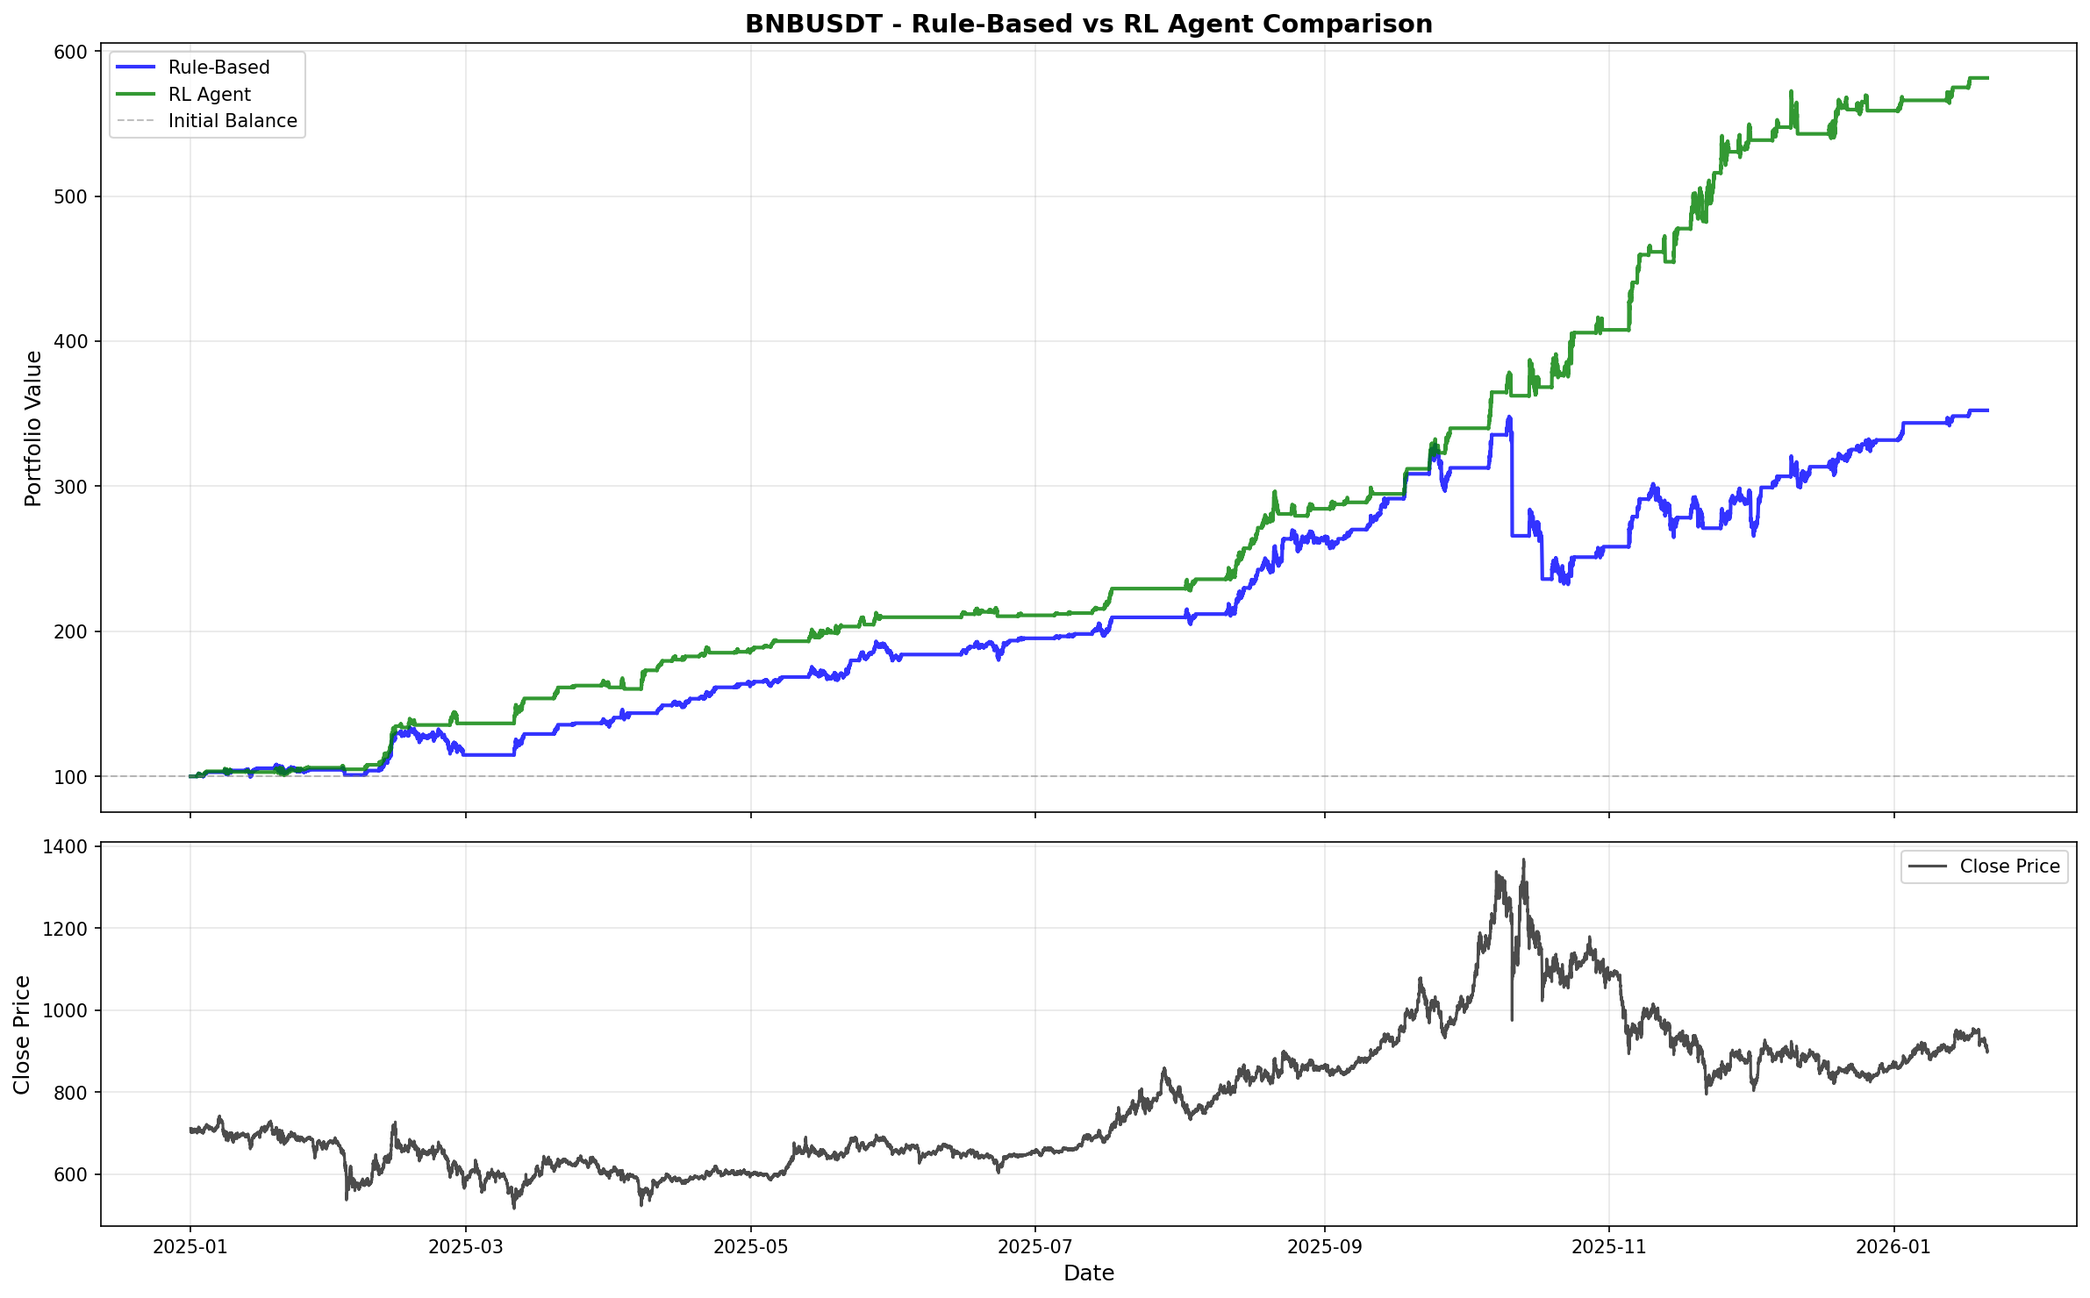
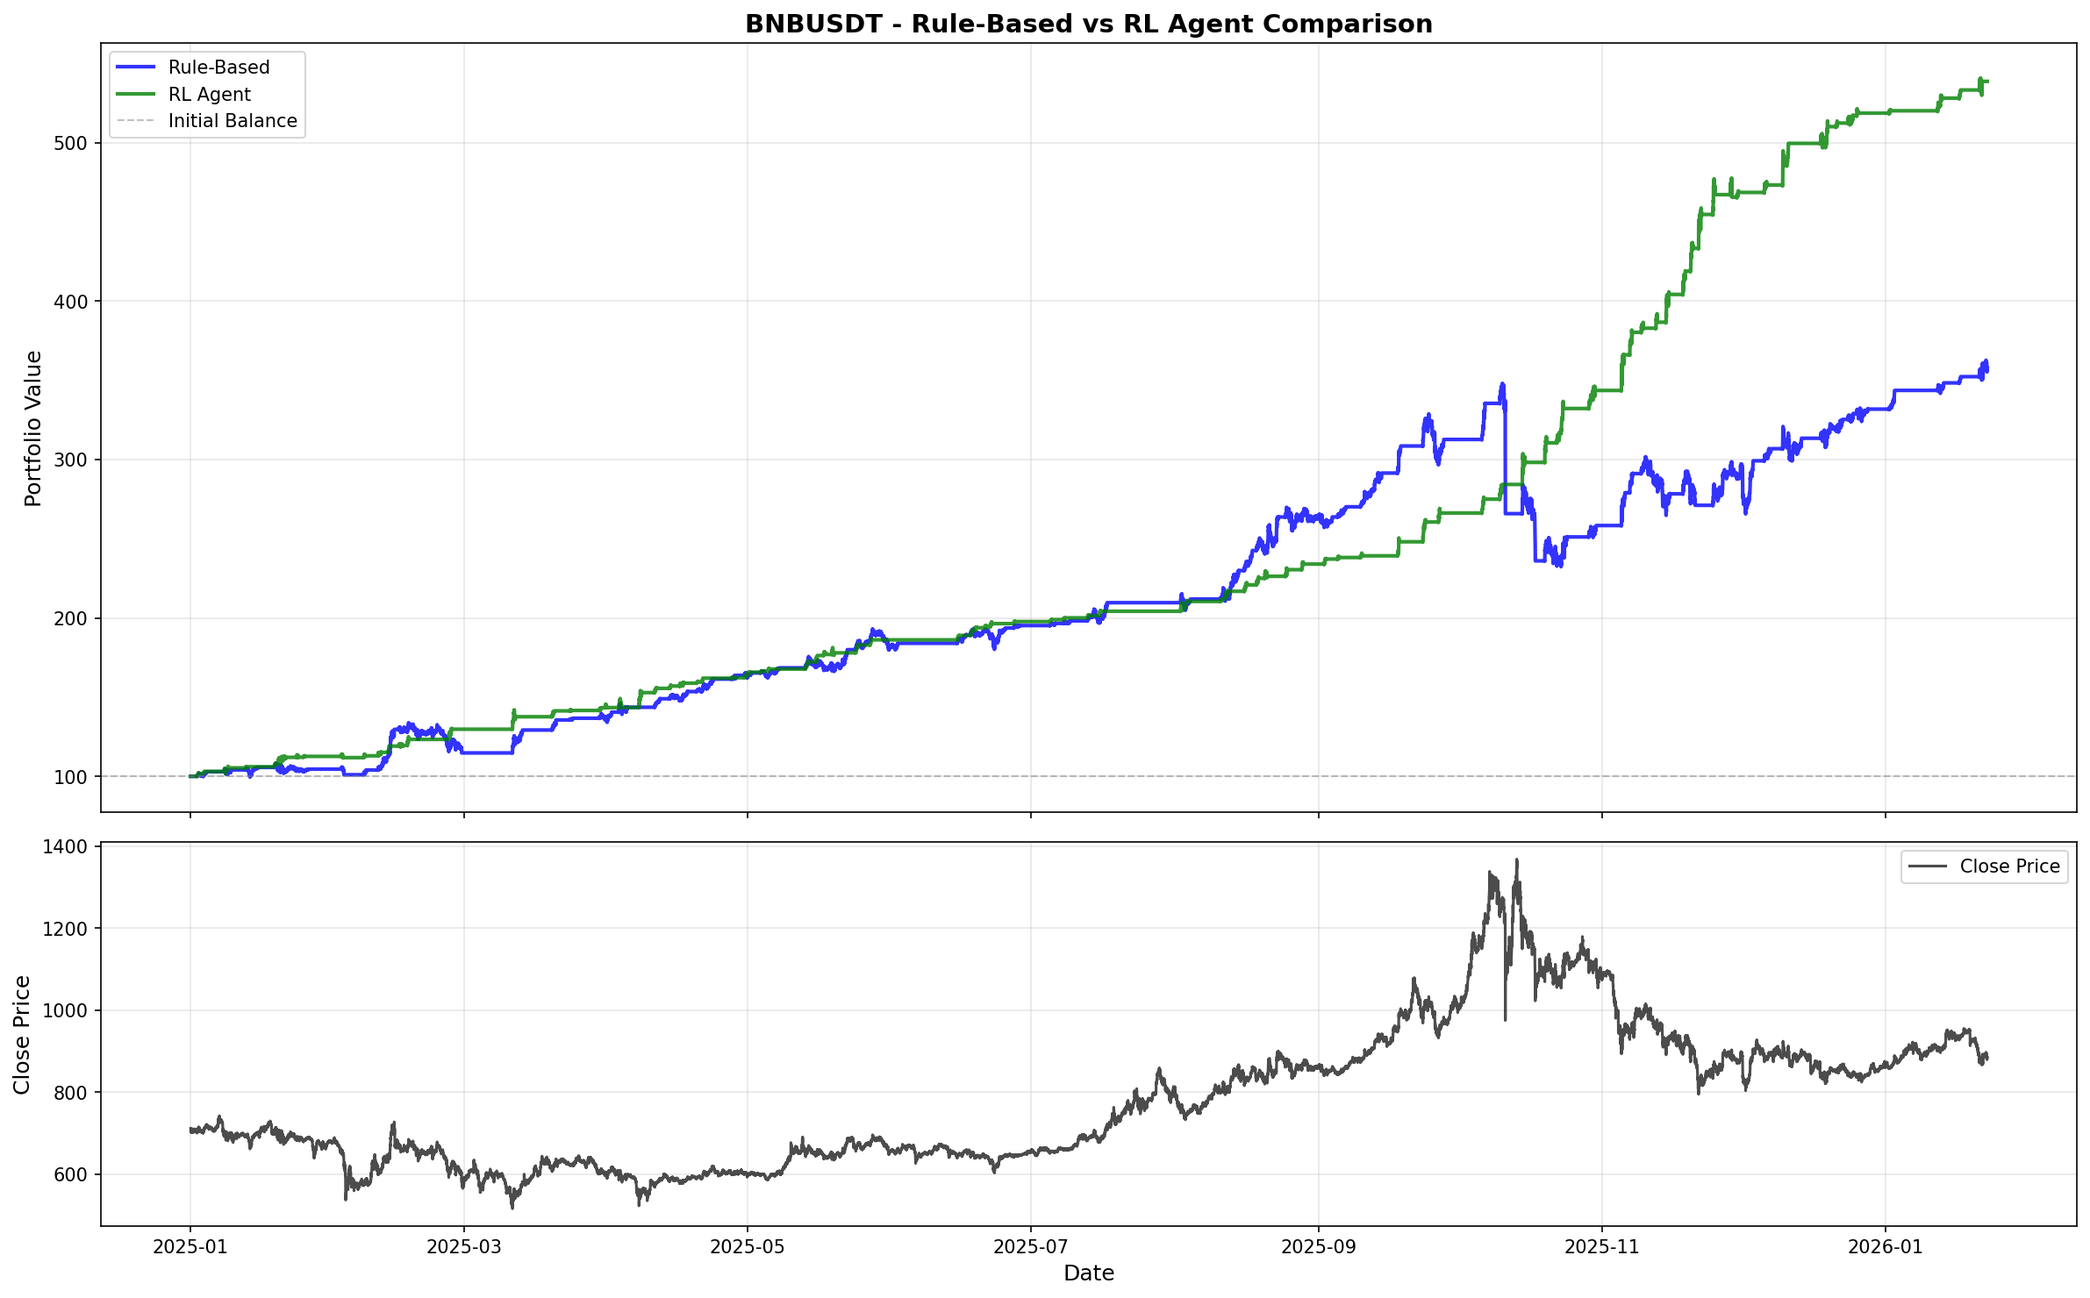
best model use mean_total_reward

diff --git a/rl_risk_management.py b/rl_risk_management.py
@@ -167,10 +167,12 @@ class RLRiskManager:
         balance: Optional[pd.Series] = None
     ) -> pd.Series:
         """
-        Apply RL-based risk management to exits using a single continuous environment.
+        Apply RL-based risk management to exits - OPTIMIZED VERSION.
         
-        Creates one environment for the entire price series and processes sequentially
-        from index 0 to the end, tracking all positions within that environment.
+        Instead of looping through every time step, this version:
+        1. Identifies all entry points upfront
+        2. For each entry, creates a mini-environment and runs until exit
+        3. Uses proper environment observations for accuracy
         
         Args:
             entries: Entry signals (boolean series)
@@ -185,134 +187,93 @@ class RLRiskManager:
         
         # Create balance series if not provided
         if balance is None:
-            # Initialize with initial balance
             balance = pd.Series(self.initial_balance, index=price.index)
-            logger.warning("Balance series not provided, using approximation")
         
         # Ensure balance is aligned with price
         if len(balance) != len(price):
-            # Reindex balance to match price
             balance = balance.reindex(price.index, method='ffill')
             balance = balance.fillna(self.initial_balance)
         
-        logger.info(f"Applying RL risk management to {len(price)} periods with single continuous environment...")
+        # Convert to numpy arrays for faster access
+        entries_arr = entries.values
+        n_periods = len(price)
         
-        # Create ONE environment for the entire price series
-        # We'll update entry_price and current_idx dynamically for each position
-        # The environment uses the full price/balance series, so we can point to any position
-        dummy_entry_price = price.iloc[0]
-        env = RiskManagementEnv(
-            price_data=price,  # Full price series
-            balance_data=balance,  # Full balance series
-            entry_price=dummy_entry_price,  # Will be updated per position
-            entry_idx=0,  # Will be updated per position
-            exit_idx=len(price) - 1,  # End of series
-            initial_balance=self.initial_balance,
-            history_length=self.history_length,
-            max_steps=self.max_steps,
-            fee_rate=self.fee_rate
-        )
-        # Store reference to full data for dynamic updates
-        env.full_price_data = price
-        env.full_balance_data = balance
-        obs, _ = env.reset()
+        # Find all entry indices upfront (MUCH faster than checking each step)
+        entry_indices = np.where(entries_arr)[0]
+        n_entries = len(entry_indices)
         
-        # Track open positions (entry_idx, entry_price, current_step_in_position)
-        open_positions = []  # List of dicts: {'entry_idx': i, 'entry_price': p, 'position_step': s}
+        if n_entries == 0:
+            logger.info("No entry signals found, returning original exits")
+            return exits_with_rl
+        
+        logger.info(f"Applying RL risk management: {n_entries} entries in {n_periods} periods")
         
         # Track RL decisions
         rl_exit_count = 0
         rl_hold_count = 0
         
-        # Process each time step sequentially from 0 to end
-        pbar = tqdm(range(len(price)), desc="Processing periods", unit="period")
-        for i in pbar:
-            # Check for new entries
-            if entries.iloc[i]:
-                # New position opened - track it
-                entry_price = price.iloc[i]
-                open_positions.append({
-                    'entry_idx': i,
-                    'entry_price': entry_price,
-                    'position_step': 0  # Steps since this position opened
-                })
-                logger.debug(f"  New position opened at step {i}, price ${entry_price:.2f}")
+        # Process each entry point
+        pbar = tqdm(entry_indices, desc="Processing entries", unit="entry")
+        for entry_idx in pbar:
+            entry_price = float(price.iloc[entry_idx])
             
-            # Process all open positions using the single environment
-            positions_to_remove = []
-            for pos in open_positions:
-                entry_idx = pos['entry_idx']
-                entry_price = pos['entry_price']
-                position_step = pos['position_step']
-                current_idx_in_price = entry_idx + position_step
-                
-                # Check if we've reached the end of price series
-                if current_idx_in_price >= len(price):
-                    # Position should be closed (reached end of data)
-                    exits_with_rl.iloc[i] = True
-                    positions_to_remove.append(pos)
-                    continue
-                
-                # Update environment to reflect current position
-                # Recalculate price_window and balance_window for this position
-                data_start = max(0, entry_idx - self.history_length)
-                data_end = min(current_idx_in_price + 1, len(price))
-                
-                env.entry_price = entry_price
-                env.entry_idx = entry_idx - data_start  # Relative to window start
-                env.current_idx = current_idx_in_price - data_start  # Relative to window start
-                env.current_step = position_step
-                env.episode_start_idx = entry_idx
-                env.data_start_idx = data_start
-                
-                # Update price and balance windows for this position
-                env.price_window = price.iloc[data_start:data_end].copy()
-                env.balance_window = balance.iloc[data_start:data_end].copy()
-                
-                # Update position tracking variables
-                current_balance = balance.iloc[current_idx_in_price]
-                if current_balance > env.peak_balance:
-                    env.peak_balance = current_balance
-                
-                # Calculate current drawdown
-                if env.peak_balance > 0:
-                    env.max_drawdown = max(env.max_drawdown, 
-                                         (env.peak_balance - current_balance) / env.peak_balance)
-                
-                # Get observation for current position
-                try:
-                    obs = env._get_observation()
-                    
-                    # Query RL agent for action
-                    action, _ = self.model.predict(obs, deterministic=self.deterministic)
-                    
-                    # Execute action
-                    if action in [1, 2]:  # Close actions
-                        exits_with_rl.iloc[current_idx_in_price] = True
-                        positions_to_remove.append(pos)
-                        rl_exit_count += 1
-                        logger.debug(f"  RL agent closed position at step {current_idx_in_price} (action={action})")
-                    else:  # Hold (action=0)
-                        rl_hold_count += 1
-                        # Increment position step for next iteration
-                        pos['position_step'] += 1
-                    
-                except Exception as e:
-                    logger.warning(f"  Error processing position at step {current_idx_in_price}: {e}")
-                    continue
+            # Create a mini-environment for this position
+            # Window: from (entry - history) to end of data (or max_steps ahead)
+            window_start = max(0, entry_idx - self.history_length)
+            window_end = min(entry_idx + self.max_steps + 100, n_periods)
             
-            # Remove closed positions
-            for pos in positions_to_remove:
-                if pos in open_positions:
-                    open_positions.remove(pos)
+            price_window = price.iloc[window_start:window_end].copy()
+            balance_window = balance.iloc[window_start:window_end].copy()
             
-            # Update progress bar with current stats
-            num_open_positions = len(open_positions)
-            pbar.set_postfix({
-                'open_pos': num_open_positions,
-                'exits': rl_exit_count,
-                'holds': rl_hold_count
-            })
+            # Create environment for this position
+            env = RiskManagementEnv(
+                price_data=price_window,
+                balance_data=balance_window,
+                entry_price=entry_price,
+                entry_idx=entry_idx - window_start,  # Relative to window
+                exit_idx=len(price_window) - 1,  # End of window
+                initial_balance=self.initial_balance,
+                history_length=self.history_length,
+                max_steps=self.max_steps,
+                fee_rate=self.fee_rate
+            )
+            
+            # Reset environment to get initial observation
+            obs, _ = env.reset()
+            
+            # Run RL agent for this position until it decides to exit
+            done = False
+            position_step = 0
+            
+            while not done:
+                # Query RL agent
+                action, _ = self.model.predict(obs, deterministic=self.deterministic)
+                
+                # Step environment
+                obs, reward, terminated, truncated, info = env.step(action)
+                done = terminated or truncated
+                position_step += 1
+                
+                if action in [1, 2]:  # Close actions
+                    # Calculate actual exit index in original price series
+                    exit_idx = entry_idx + position_step
+                    if exit_idx < n_periods:
+                        exits_with_rl.iloc[exit_idx] = True
+                    else:
+                        exits_with_rl.iloc[n_periods - 1] = True
+                    rl_exit_count += 1
+                    break
+                else:  # Hold
+                    rl_hold_count += 1
+                
+                # Safety: max steps reached
+                if position_step >= self.max_steps:
+                    exit_idx = min(entry_idx + position_step, n_periods - 1)
+                    exits_with_rl.iloc[exit_idx] = True
+                    rl_exit_count += 1
+                    break
+            
+            pbar.set_postfix({'exits': rl_exit_count, 'holds': rl_hold_count})
         
         pbar.close()
         
@@ -322,12 +283,14 @@ class RLRiskManager:
         rl_added_exits = new_exits - original_exits
         
         logger.info(f"  RL Risk Management Summary:")
+        logger.info(f"    Entries processed: {n_entries}")
         logger.info(f"    Original exits: {original_exits}")
         logger.info(f"    RL-added exits: {rl_added_exits}")
         logger.info(f"    Total exits: {new_exits}")
         logger.info(f"    RL decisions - Hold: {rl_hold_count}, Close: {rl_exit_count}")
         
         return exits_with_rl
+    
 
 
 def apply_rl_risk_management(

diff --git a/evaluate_rl_agent.py b/evaluate_rl_agent.py
@@ -50,8 +50,8 @@ DEFAULT_MODEL_NAME = "best_model"
 
 # Evaluation date range configuration
 # Set to None to use all available data, or specify date range for evaluation
-EVAL_START_DATE = "2024-01-01"  # YYYY-MM-DD format, or None for all data
-EVAL_END_DATE = "2025-01-21"    # YYYY-MM-DD format, or None for all data
+EVAL_START_DATE = "2025-01-01"  # YYYY-MM-DD format, or None for all data
+EVAL_END_DATE = "2026-01-24"    # YYYY-MM-DD format, or None for all data
 
 # Test configuration
 USE_RL_RISK_MANAGEMENT = True  # Enable RL risk management
@@ -249,7 +249,8 @@ def evaluate_rl_agent(
     exits: pd.Series,
     strategy: str = "Combined",
     model_path: Optional[Path] = None,
-    model_name: str = DEFAULT_MODEL_NAME
+    model_name: str = DEFAULT_MODEL_NAME,
+    rl_manager: Optional[RLRiskManager] = None
 ) -> Dict:
     """
     Evaluate RL agent.
@@ -263,30 +264,32 @@ def evaluate_rl_agent(
         strategy: Strategy name
         model_path: Path to model
         model_name: Model filename
+        rl_manager: Pre-loaded RLRiskManager instance (for reuse across tickers)
     
     Returns:
         Results dictionary
     """
     logger.info(f"Evaluating RL agent for {ticker}...")
     
-    # Load RL risk manager
-    try:
-        manager = RLRiskManager(
-            model_path=model_path,
-            model_name=model_name,
-            initial_balance=INITIAL_BALANCE
-        )
-    except Exception as e:
-        logger.error(f"Error loading RL model: {e}")
-        logger.error("Falling back to rule-based baseline")
-        return evaluate_rule_based_baseline(ticker, ticker_df, price, entries, exits, strategy)
+    # Use provided manager or load a new one
+    if rl_manager is None:
+        try:
+            rl_manager = RLRiskManager(
+                model_path=model_path,
+                model_name=model_name,
+                initial_balance=INITIAL_BALANCE
+            )
+        except Exception as e:
+            logger.error(f"Error loading RL model: {e}")
+            logger.error("Falling back to rule-based baseline")
+            return evaluate_rule_based_baseline(ticker, ticker_df, price, entries, exits, strategy)
     
     # Apply RL risk management
     # First, get initial balance progression (simulate it)
     balance = pd.Series(INITIAL_BALANCE, index=price.index)
     
     # Apply RL risk management
-    exits_rl = manager.apply_rl_risk_management(entries, exits.copy(), price, balance)
+    exits_rl = rl_manager.apply_rl_risk_management(entries, exits.copy(), price, balance)
     
     # Backtest
     portfolio_rl = backtest_strategy(price, entries, exits_rl, ticker)
@@ -679,6 +682,22 @@ def main(
     else:
         logger.info("Using all available data (no date filtering)")
     
+    # Load RL model ONCE and reuse for all tickers
+    rl_manager = None
+    if USE_RL_RISK_MANAGEMENT:
+        try:
+            logger.info("Loading RL model (will be reused for all tickers)...")
+            rl_manager = RLRiskManager(
+                model_path=MODEL_LOAD_DIR,
+                model_name=DEFAULT_MODEL_NAME,
+                initial_balance=INITIAL_BALANCE
+            )
+            logger.info("RL model loaded successfully")
+        except Exception as e:
+            logger.error(f"Error loading RL model: {e}")
+            logger.error("RL evaluation will be skipped")
+            rl_manager = None
+    
     # Test on all tickers
     all_results = {}
     
@@ -712,12 +731,13 @@ def main(
                     ticker, ticker_df, price, entries, exits, strategy="Combined"
                 )
             
-            if USE_RL_RISK_MANAGEMENT:
+            if USE_RL_RISK_MANAGEMENT and rl_manager is not None:
                 results_rl = evaluate_rl_agent(
                     ticker, ticker_df, price, entries, exits, 
                     strategy="Combined",
                     model_path=MODEL_LOAD_DIR,
-                    model_name=DEFAULT_MODEL_NAME
+                    model_name=DEFAULT_MODEL_NAME,
+                    rl_manager=rl_manager
                 )
             
             # Compare results

diff --git a/train_rl_agent.py b/train_rl_agent.py
@@ -55,9 +55,9 @@ TICKER_LIST = ["BTCUSDT", "ETHUSDT", "BNBUSDT", "DOGEUSDT", "ADAUSDT", "SOLUSDT"
 INITIAL_BALANCE = 1000.0  # Default initial balance
 
 # Training hyperparameters
-TOTAL_TIMESTEPS = 5e10  # Total training steps (use early stopping)
-LEARNING_RATE = 2e-4  # Initial learning rate
-LEARNING_RATE_END = 1e-5  # Final learning rate (for linear decay)
+TOTAL_TIMESTEPS = 5e6  # Total training steps (use early stopping)
+LEARNING_RATE = 3e-4  # Initial learning rate
+LEARNING_RATE_END = 1e-4  # Final learning rate (for linear decay)
 USE_LR_SCHEDULE = True  # Enable learning rate scheduling
 BATCH_SIZE = 256  # Batch size for stable training
 N_STEPS = 2048  # Steps per update
@@ -81,7 +81,7 @@ EVAL_FREQ = 5000  # Evaluate every N steps
 EVAL_EPISODES = 10  # Number of episodes for evaluation
 
 # Early stopping configuration
-ENABLE_EARLY_STOPPING = True  # Enable early stopping
+ENABLE_EARLY_STOPPING = False  # Enable early stopping
 EARLY_STOPPING_PATIENCE = 50  # Number of evaluations without improvement before stopping
 EARLY_STOPPING_MIN_DELTA = 0.0  # Minimum change to qualify as improvement
 EARLY_STOPPING_MONITOR = 'mean_total_reward'  # Metric to monitor: 'mean_reward', 'mean_total_reward', 'mean_ep_length', or 'loss'
@@ -107,7 +107,7 @@ EVAL_START_DATE = "2025-01-01"   # Start date for evaluation (None = use VAL dat
 EVAL_END_DATE = "2026-01-24"              # End date for evaluation (None = end of data)
 
 # Technical indicator settings for entry signal generation
-USE_TECHNICAL_SIGNALS = True  # Use technical signals for entry points (if False, random entry)
+USE_TECHNICAL_SIGNALS = False  # Use technical signals for entry points (if False, random entry)
 MACD_FAST = 12
 MACD_SLOW = 26
 MACD_SIGNAL = 9
@@ -367,12 +367,12 @@ class DynamicEvalCallback(BaseCallback):
                           f"min={min_holding_time:.0f}, max={max_holding_time:.0f}")
             
             # Save best model
-            if mean_reward > self.best_mean_reward:
-                self.best_mean_reward = mean_reward
+            if mean_total_reward > self.best_mean_reward:
+                self.best_mean_reward = mean_total_reward
                 best_model_path = self.model_save_dir / "best_model.zip"
                 self.model.save(str(best_model_path))
                 if self.verbose >= 1:
-                    logger.info(f"New best model saved with mean reward: {mean_reward:.2f}")
+                    logger.info(f"New best model saved with mean total reward: {mean_total_reward:.2f}")
             
             # Clean up
             eval_env.close()
